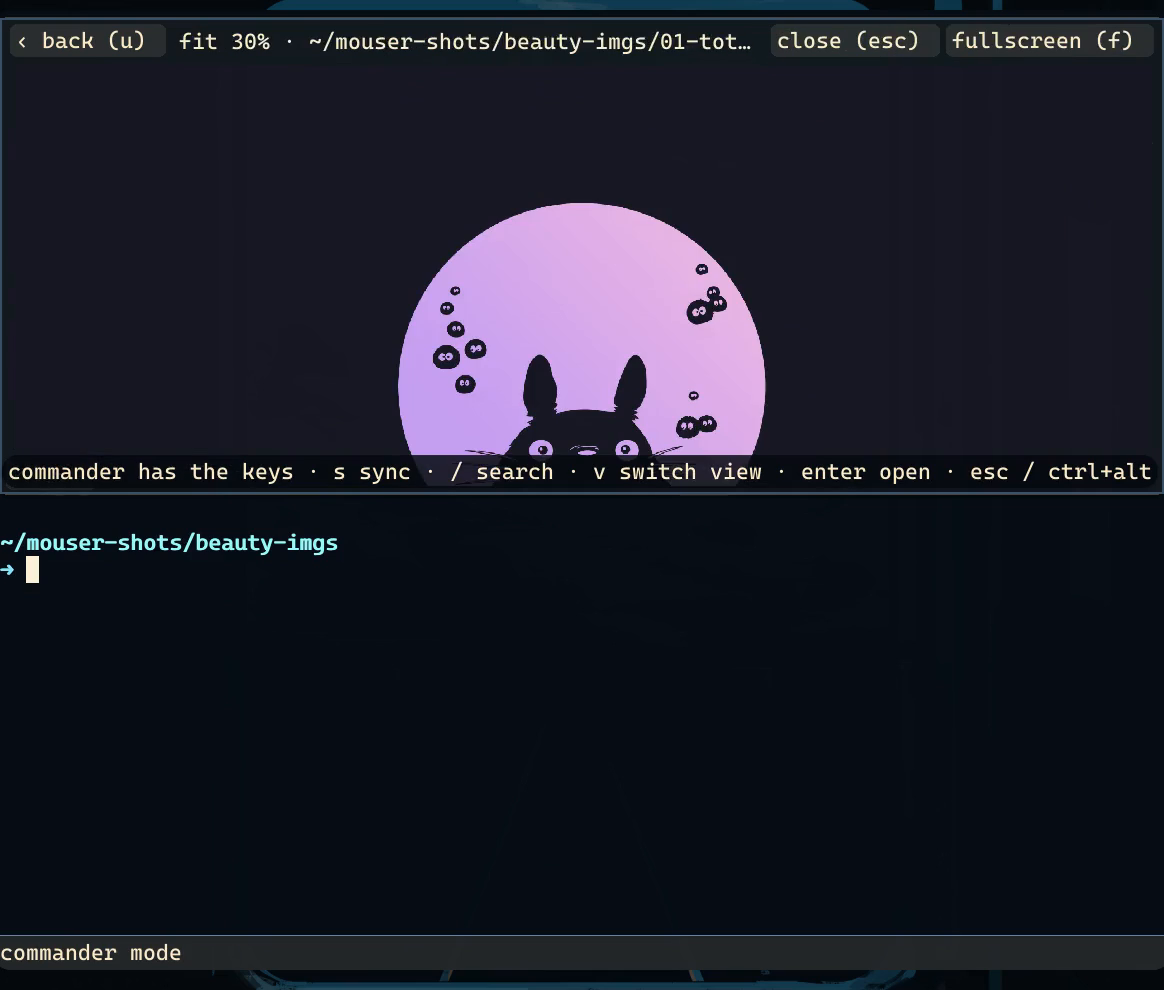
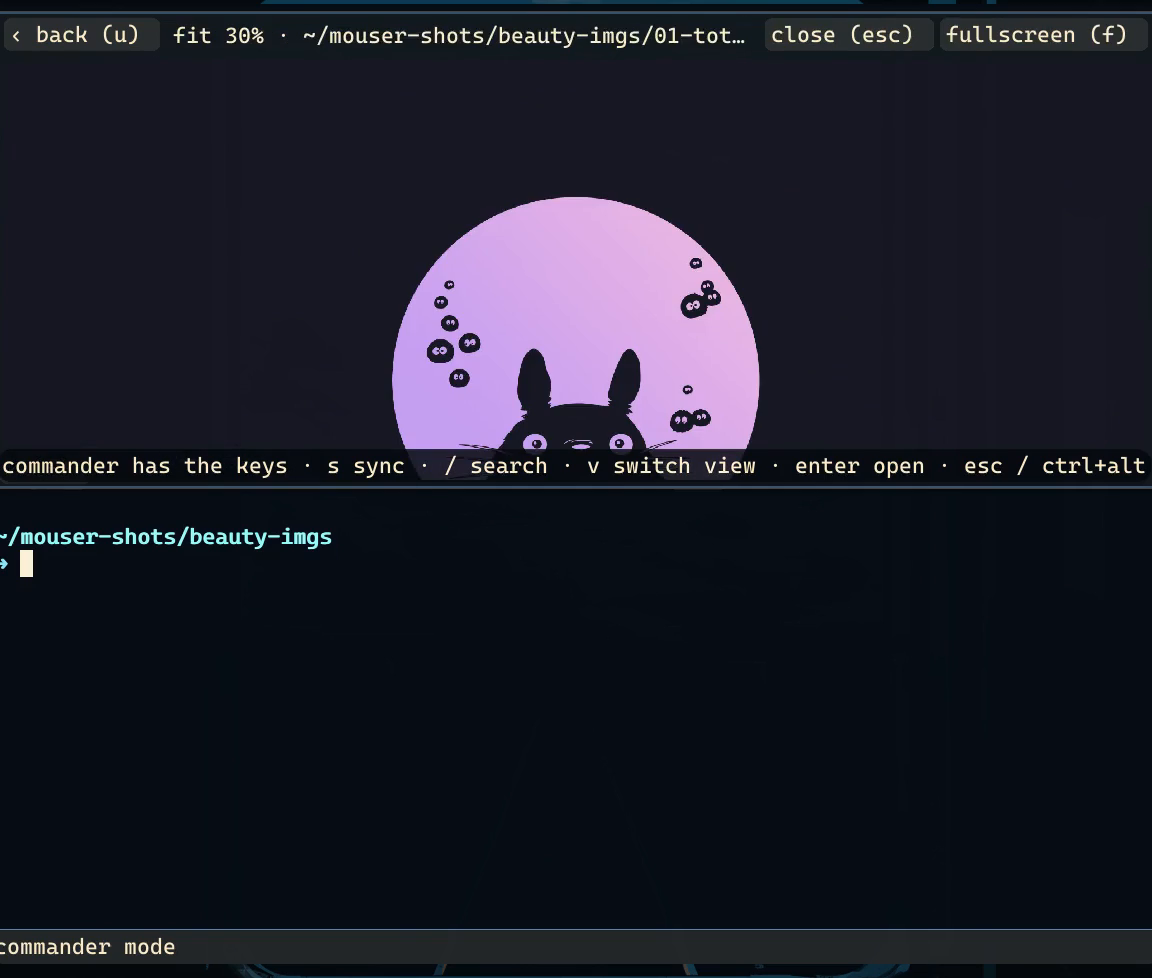
site: hero 10px radius + 6px chrome inset, still no frame
Slightly inset the crop into window chrome and shrink radius so
corner glyphs clear the round — still no pad, ring, or painted edge.

diff --git a/site/style.css b/site/style.css
@@ -62,7 +62,7 @@ h3{font-size:1.05rem;margin:0 0 .4rem;color:var(--cyan)}
   object-fit:contain;background:transparent;border:0;border-radius:0;
   box-shadow:none;
 }
-.hero .shot.beautiful{--hero-radius:12px;margin:1.25rem 0 1.5rem;border-radius:var(--hero-radius);overflow:hidden}
+.hero .shot.beautiful{--hero-radius:10px;margin:1.25rem 0 1.5rem;border-radius:var(--hero-radius);overflow:hidden}
 .shot.beautiful .beautiful-poster{display:none}
 @media (prefers-reduced-motion:reduce){
   .shot.beautiful video{display:none}
@@ -70,7 +70,7 @@ h3{font-size:1.05rem;margin:0 0 .4rem;color:var(--cyan)}
 }
 /* Hero clip: video is the edge — no pad, ring, or painted frame. */
 .shot .media-frame.hero-fill{
-  --hero-radius:12px;
+  --hero-radius:10px;
   padding:0;border:0;background:transparent;
   border-radius:var(--hero-radius);overflow:hidden;line-height:0;
   width:100%;box-sizing:border-box;
@@ -79,7 +79,7 @@ h3{font-size:1.05rem;margin:0 0 .4rem;color:var(--cyan)}
 .light .shot .media-frame.hero-fill{box-shadow:none}
 .shot .media-frame.hero-fill img,.shot .media-frame.hero-fill video{
   display:block;width:100%;height:auto;
-  aspect-ratio:1164 / 990;
+  aspect-ratio:1152 / 978;
   object-fit:cover;
   background:transparent;border:0;border-radius:0;box-shadow:none;
 }

diff --git a/site/index.html b/site/index.html
@@ -33,14 +33,14 @@
   <figure class="shot beautiful" aria-label="Mouser is beautiful">
     <div class="media-frame hero-fill">
       <video id="beautiful-video" autoplay muted loop playsinline preload="metadata"
-        poster="assets/mouser-is-beautiful-poster.png?v=10"
-        width="1164" height="990">
-        <source src="assets/mouser-is-beautiful.webm?v=10" type="video/webm">
-        <source src="assets/mouser-is-beautiful.mp4?v=10" type="video/mp4">
+        poster="assets/mouser-is-beautiful-poster.png?v=11"
+        width="1152" height="978">
+        <source src="assets/mouser-is-beautiful.webm?v=11" type="video/webm">
+        <source src="assets/mouser-is-beautiful.mp4?v=11" type="video/mp4">
       </video>
-      <img class="beautiful-poster" src="assets/mouser-is-beautiful-poster.png?v=10"
+      <img class="beautiful-poster" src="assets/mouser-is-beautiful-poster.png?v=11"
         alt="Mouser theme editor: browsing themes and matching the system palette"
-        width="1164" height="990">
+        width="1152" height="978">
     </div>
   </figure>
   <div class="hero-meta">
